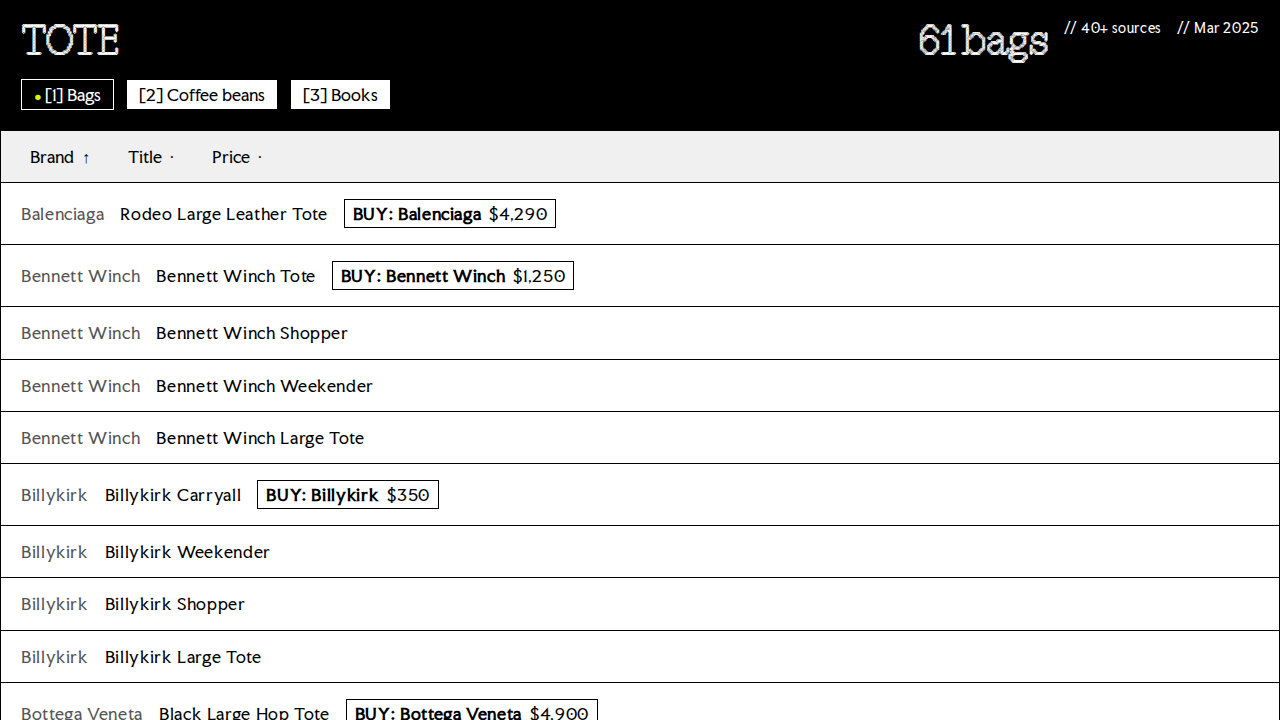
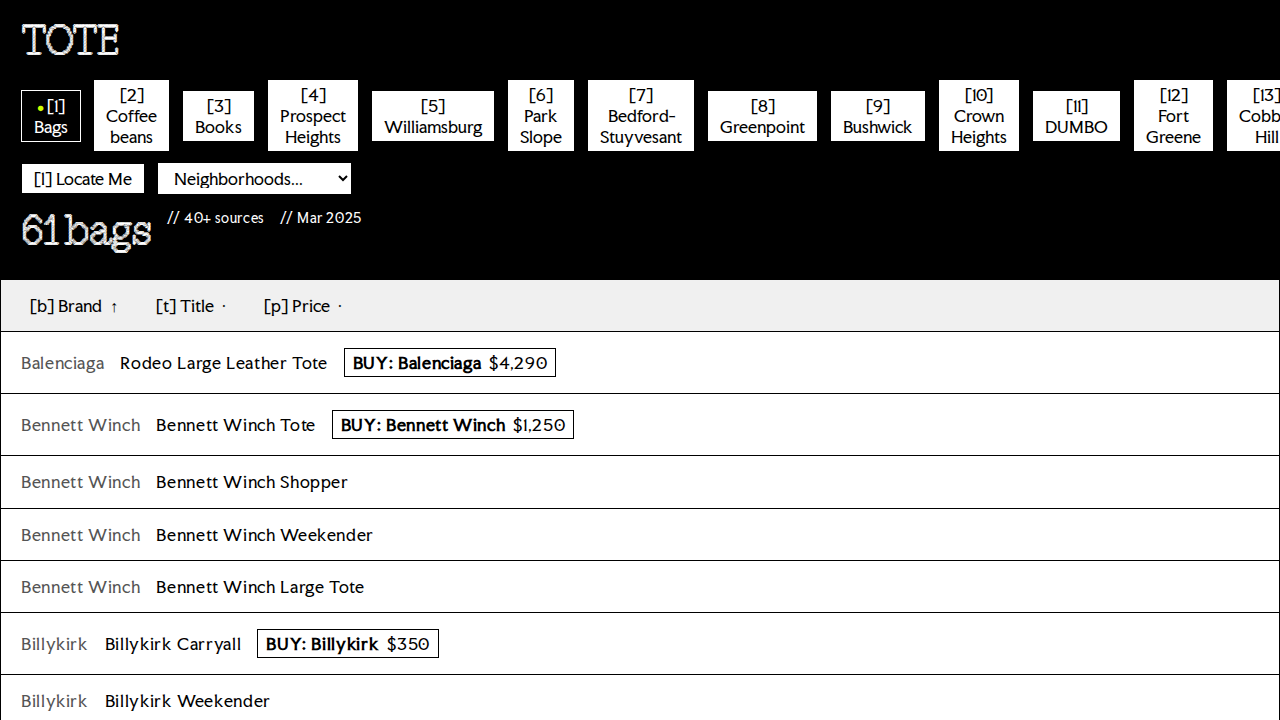
feat: add geolocation and brooklyn neighborhoods
- Added JSON data files for major Brooklyn neighborhoods.
- Updated categories array in index.html to include new Brooklyn neighborhoods with latLng coordinates.
- Implemented 'Locate Me' feature using navigator.geolocation and Haversine formula to find closest neighborhood.
- Added neighborhood dropdown for manual selection.
- Added keyboard shortcut '[l]' for 'Locate Me'.
- Ensured users outside NYC (50 mile radius) receive an alert.

diff --git a/index.html b/index.html
@@ -172,6 +172,12 @@ footer {
     <nav class="category-nav" id="category-nav" aria-label="Categories">
       <!-- Nav buttons will be injected here -->
     </nav>
+    <div class="location-controls" style="display: flex; gap: 12px; align-items: center; margin-top: 10px;">
+      <button type="button" class="category-btn" id="locate-me-btn" aria-label="Locate Me">[l] Locate Me</button>
+      <select id="neighborhood-select" class="category-btn" aria-label="Select Neighborhood">
+        <option value="" disabled selected>Neighborhoods...</option>
+      </select>
+    </div>
   </div>
   <span class="meta"><span id="hd-n"></span><span>40+ sources</span><span>Mar 2025</span></span>
 </header>
@@ -207,6 +213,8 @@ footer {
   const sortButtons = document.querySelectorAll('.header-label');
   const countEl = document.getElementById('hd-n');
   const navEl = document.getElementById('category-nav');
+  const locateMeBtn = document.getElementById('locate-me-btn');
+  const neighborhoodSelect = document.getElementById('neighborhood-select');
   const indicators = {
     name: document.querySelector('[data-indicator="name"]'),
     brand: document.querySelector('[data-indicator="brand"]'),
@@ -217,7 +225,27 @@ footer {
     { id: 'bags', name: 'Bags', file: '/data/bags.json', dataKey: 'bags', unit: 'bags', actionText: 'BUY' },
     { id: 'coffee', name: 'Coffee beans', file: '/data/coffee.json', dataKey: 'items', unit: 'items', actionText: 'BUY' },
     { id: 'books', name: 'Books', file: '/data/books.json', dataKey: 'books', unit: 'books', actionText: 'BUY' },
-    { id: 'prospect_heights', name: 'Prospect Heights', file: '/data/prospect_heights.json', dataKey: 'places', unit: 'places', actionText: 'VISIT' }
+    { id: 'prospect_heights', name: 'Prospect Heights', file: '/data/prospect_heights.json', dataKey: 'places', unit: 'places', actionText: 'VISIT', latLng: [40.6775, -73.9654] },
+    { id: 'williamsburg', name: 'Williamsburg', file: '/data/williamsburg.json', dataKey: 'places', unit: 'places', actionText: 'VISIT', latLng: [40.7128, -73.9560] },
+    { id: 'park_slope', name: 'Park Slope', file: '/data/park_slope.json', dataKey: 'places', unit: 'places', actionText: 'VISIT', latLng: [40.6720, -73.9778] },
+    { id: 'bed_stuy', name: 'Bedford-Stuyvesant', file: '/data/bed_stuy.json', dataKey: 'places', unit: 'places', actionText: 'VISIT', latLng: [40.6872, -73.9418] },
+    { id: 'greenpoint', name: 'Greenpoint', file: '/data/greenpoint.json', dataKey: 'places', unit: 'places', actionText: 'VISIT', latLng: [40.7302, -73.9540] },
+    { id: 'bushwick', name: 'Bushwick', file: '/data/bushwick.json', dataKey: 'places', unit: 'places', actionText: 'VISIT', latLng: [40.6958, -73.9171] },
+    { id: 'crown_heights', name: 'Crown Heights', file: '/data/crown_heights.json', dataKey: 'places', unit: 'places', actionText: 'VISIT', latLng: [40.6681, -73.9448] },
+    { id: 'dumbo', name: 'DUMBO', file: '/data/dumbo.json', dataKey: 'places', unit: 'places', actionText: 'VISIT', latLng: [40.7033, -73.9881] },
+    { id: 'fort_greene', name: 'Fort Greene', file: '/data/fort_greene.json', dataKey: 'places', unit: 'places', actionText: 'VISIT', latLng: [40.6861, -73.9754] },
+    { id: 'cobble_hill', name: 'Cobble Hill', file: '/data/cobble_hill.json', dataKey: 'places', unit: 'places', actionText: 'VISIT', latLng: [40.6875, -73.9958] },
+    { id: 'brooklyn_heights', name: 'Brooklyn Heights', file: '/data/brooklyn_heights.json', dataKey: 'places', unit: 'places', actionText: 'VISIT', latLng: [40.6950, -73.9936] },
+    { id: 'carroll_gardens', name: 'Carroll Gardens', file: '/data/carroll_gardens.json', dataKey: 'places', unit: 'places', actionText: 'VISIT', latLng: [40.6805, -73.9981] },
+    { id: 'clinton_hill', name: 'Clinton Hill', file: '/data/clinton_hill.json', dataKey: 'places', unit: 'places', actionText: 'VISIT', latLng: [40.6896, -73.9660] },
+    { id: 'gowanus', name: 'Gowanus', file: '/data/gowanus.json', dataKey: 'places', unit: 'places', actionText: 'VISIT', latLng: [40.6731, -73.9902] },
+    { id: 'red_hook', name: 'Red Hook', file: '/data/red_hook.json', dataKey: 'places', unit: 'places', actionText: 'VISIT', latLng: [40.6734, -74.0093] },
+    { id: 'boerum_hill', name: 'Boerum Hill', file: '/data/boerum_hill.json', dataKey: 'places', unit: 'places', actionText: 'VISIT', latLng: [40.6845, -73.9856] },
+    { id: 'ditmas_park', name: 'Ditmas Park', file: '/data/ditmas_park.json', dataKey: 'places', unit: 'places', actionText: 'VISIT', latLng: [40.6409, -73.9626] },
+    { id: 'kensington', name: 'Kensington', file: '/data/kensington.json', dataKey: 'places', unit: 'places', actionText: 'VISIT', latLng: [40.6385, -73.9748] },
+    { id: 'windsor_terrace', name: 'Windsor Terrace', file: '/data/windsor_terrace.json', dataKey: 'places', unit: 'places', actionText: 'VISIT', latLng: [40.6539, -73.9758] },
+    { id: 'bay_ridge', name: 'Bay Ridge', file: '/data/bay_ridge.json', dataKey: 'places', unit: 'places', actionText: 'VISIT', latLng: [40.6262, -74.0320] },
+    { id: 'sunset_park', name: 'Sunset Park', file: '/data/sunset_park.json', dataKey: 'places', unit: 'places', actionText: 'VISIT', latLng: [40.6455, -74.0124] }
   ];
 
   // ⚡ Bolt Optimization: Cache category data to prevent redundant network requests
@@ -226,6 +254,28 @@ footer {
   let currentCategory = categories[0];
   let items = [];
   let currentSort = { key: 'brand', direction: 'asc' };
+
+  function initNeighborhoodDropdown() {
+    neighborhoodSelect.innerHTML = '<option value="" disabled selected>Neighborhoods...</option>';
+    categories.forEach(cat => {
+      if (cat.latLng) {
+        const option = document.createElement('option');
+        option.value = cat.id;
+        option.textContent = cat.name;
+        neighborhoodSelect.appendChild(option);
+      }
+    });
+
+    neighborhoodSelect.addEventListener('change', (e) => {
+      const targetId = e.target.value;
+      const targetCategory = categories.find(c => c.id === targetId);
+      if (targetCategory && targetCategory.id !== currentCategory.id) {
+        currentCategory = targetCategory;
+        loadCategoryData();
+      }
+      e.target.value = ""; // Reset dropdown after selection
+    });
+  }
 
   function renderNav() {
     navEl.innerHTML = '';
@@ -386,6 +436,73 @@ footer {
     });
   });
 
+  // Haversine formula to calculate distance in miles
+  function getDistance(lat1, lon1, lat2, lon2) {
+    const R = 3958.8; // Radius of the earth in miles
+    const dLat = (lat2 - lat1) * (Math.PI / 180);
+    const dLon = (lon2 - lon1) * (Math.PI / 180);
+    const a =
+      Math.sin(dLat/2) * Math.sin(dLat/2) +
+      Math.cos(lat1 * (Math.PI / 180)) * Math.cos(lat2 * (Math.PI / 180)) *
+      Math.sin(dLon/2) * Math.sin(dLon/2);
+    const c = 2 * Math.atan2(Math.sqrt(a), Math.sqrt(1-a));
+    return R * c;
+  }
+
+  function handleLocateMe() {
+    locateMeBtn.textContent = 'Locating...';
+    locateMeBtn.disabled = true;
+
+    if (!navigator.geolocation) {
+      alert("Geolocation is not supported by your browser");
+      resetLocateBtn();
+      return;
+    }
+
+    navigator.geolocation.getCurrentPosition(
+      (position) => {
+        const userLat = position.coords.latitude;
+        const userLng = position.coords.longitude;
+
+        let closestCategory = null;
+        let minDistance = Infinity;
+
+        categories.forEach(cat => {
+          if (cat.latLng) {
+            const distance = getDistance(userLat, userLng, cat.latLng[0], cat.latLng[1]);
+            if (distance < minDistance) {
+              minDistance = distance;
+              closestCategory = cat;
+            }
+          }
+        });
+
+        // Assuming NYC is roughly within a 50 mile radius of user if they are in NYC
+        // We can just check if minDistance is within a reasonable bound for NYC
+        if (minDistance > 50) {
+          alert("Only for NYC neighborhoods");
+        } else if (closestCategory && closestCategory.id !== currentCategory.id) {
+          currentCategory = closestCategory;
+          loadCategoryData();
+        }
+        resetLocateBtn();
+      },
+      (error) => {
+        console.error("Geolocation error:", error);
+        alert("Unable to retrieve your location");
+        resetLocateBtn();
+      },
+      { timeout: 10000 }
+    );
+  }
+
+  function resetLocateBtn() {
+    locateMeBtn.textContent = '[l] Locate Me';
+    locateMeBtn.disabled = false;
+  }
+
+  locateMeBtn.addEventListener('click', handleLocateMe);
+
   window.addEventListener('keydown', (e) => {
     // Ignore keydown if a modifier is pressed or if user is typing in an input
     if (e.ctrlKey || e.metaKey || e.altKey) return;
@@ -409,10 +526,13 @@ footer {
       handleSort('name');
     } else if (k === 'p') {
       handleSort('price');
+    } else if (k === 'l') {
+      handleLocateMe();
     }
   });
 
   // Init
+  initNeighborhoodDropdown();
   loadCategoryData();
 })();
 </script>

diff --git a/generate_brooklyn.py b/generate_brooklyn.py
@@ -1,0 +1,33 @@
+import json
+import os
+
+neighborhoods = {
+    'williamsburg': {'name': 'Williamsburg', 'lat': 40.7128, 'lng': -73.9560},
+    'park_slope': {'name': 'Park Slope', 'lat': 40.6720, 'lng': -73.9778},
+    'bed_stuy': {'name': 'Bedford-Stuyvesant', 'lat': 40.6872, 'lng': -73.9418},
+    'greenpoint': {'name': 'Greenpoint', 'lat': 40.7302, 'lng': -73.9540},
+    'bushwick': {'name': 'Bushwick', 'lat': 40.6958, 'lng': -73.9171},
+    'crown_heights': {'name': 'Crown Heights', 'lat': 40.6681, 'lng': -73.9448},
+    'dumbo': {'name': 'DUMBO', 'lat': 40.7033, 'lng': -73.9881},
+    'fort_greene': {'name': 'Fort Greene', 'lat': 40.6861, 'lng': -73.9754},
+    'cobble_hill': {'name': 'Cobble Hill', 'lat': 40.6875, 'lng': -73.9958},
+    'brooklyn_heights': {'name': 'Brooklyn Heights', 'lat': 40.6950, 'lng': -73.9936},
+    'carroll_gardens': {'name': 'Carroll Gardens', 'lat': 40.6805, 'lng': -73.9981},
+    'clinton_hill': {'name': 'Clinton Hill', 'lat': 40.6896, 'lng': -73.9660},
+    'gowanus': {'name': 'Gowanus', 'lat': 40.6731, 'lng': -73.9902},
+    'red_hook': {'name': 'Red Hook', 'lat': 40.6734, 'lng': -74.0093},
+    'boerum_hill': {'name': 'Boerum Hill', 'lat': 40.6845, 'lng': -73.9856},
+    'ditmas_park': {'name': 'Ditmas Park', 'lat': 40.6409, 'lng': -73.9626},
+    'kensington': {'name': 'Kensington', 'lat': 40.6385, 'lng': -73.9748},
+    'windsor_terrace': {'name': 'Windsor Terrace', 'lat': 40.6539, 'lng': -73.9758},
+    'bay_ridge': {'name': 'Bay Ridge', 'lat': 40.6262, 'lng': -74.0320},
+    'sunset_park': {'name': 'Sunset Park', 'lat': 40.6455, 'lng': -74.0124},
+}
+
+for key, data in neighborhoods.items():
+    filepath = f"data/{key}.json"
+    if not os.path.exists(filepath):
+        with open(filepath, 'w') as f:
+            json.dump({"places": []}, f, indent=2)
+
+print("Generated JSON files.")

diff --git a/plan.md b/plan.md
@@ -1,0 +1,17 @@
+1. Add Brooklyn neighborhoods to the app
+   - I need to find all Brooklyn neighborhoods and create JSON files for each of them with some placeholder data or real data. Let's create a script to generate JSON files for Brooklyn neighborhoods.
+   - Update `categories` array in `index.html` to include all these new Brooklyn neighborhood categories.
+
+2. Add geolocation feature
+   - Add a "Locate Me" button to the UI, maybe near the category navigation or in a separate location control area.
+   - Implement the geolocation logic using the browser's Geolocation API (`navigator.geolocation.getCurrentPosition`).
+   - Define a list of coordinates (latitude, longitude) for each Brooklyn neighborhood.
+   - When the user clicks "Locate Me", get their coordinates and find the closest Brooklyn neighborhood using the Haversine formula or a simple distance calculation.
+   - If the user is outside NYC (we can define a bounding box or maximum distance from NYC center), show a message saying "Only for NYC neighborhoods".
+   - If the user is within NYC, switch to the closest neighborhood category.
+   - Also allow users to "put in a neighborhood" (perhaps a simple search or dropdown if the list gets too long).
+
+3. Pre commit steps
+   - Run `pre_commit_instructions` and follow the required checks.
+
+4. Submit the changes.
